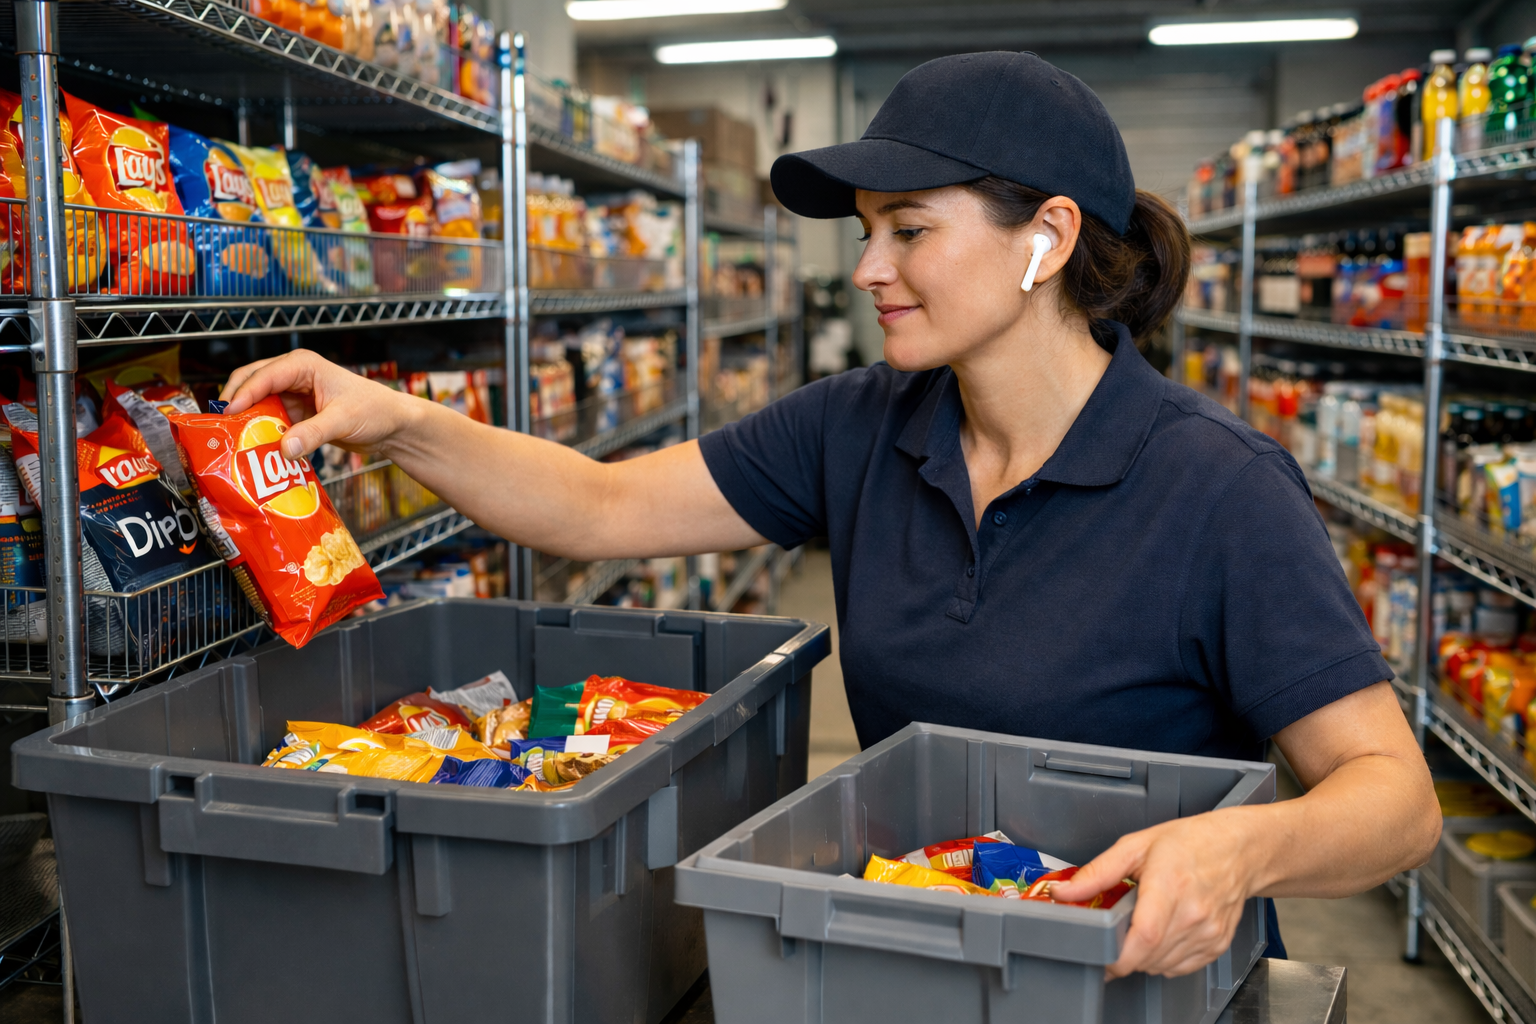
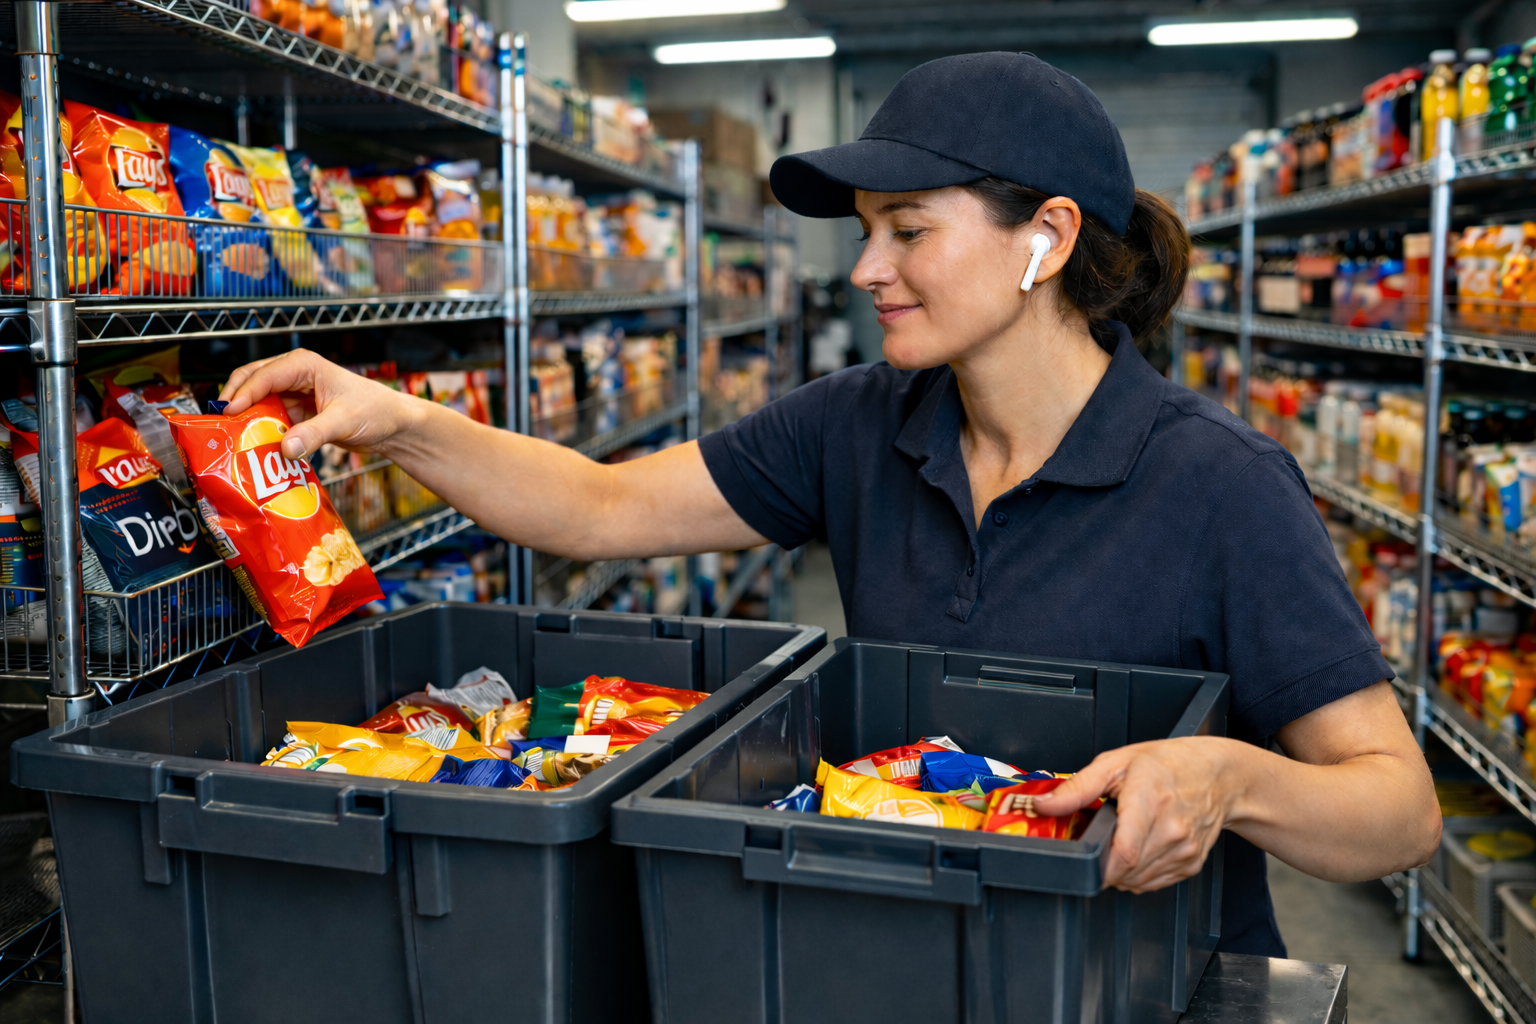
Replace hero image 3 and reduce shadow to subtle depth
- Swapped to Hero image 3
- Reduced shadow layers from 3 to 1 subtle offset shadow
- Thinned glow ring with lower opacity
- Smaller, more subtle corner accent glows
- Kept distinctive but not overwhelming

🤖 Generated with [Claude Code](https://claude.com/claude-code)

diff --git a/src/pages/Home.tsx b/src/pages/Home.tsx
@@ -88,28 +88,25 @@ const Home = () => {
             {/* Right Column - Hero Image */}
             <div className="animate-fade-in-up animation-delay-150 lg:order-last order-first">
               <div className="relative">
-                {/* Deep shadow layers for 3D effect */}
-                <div className="absolute inset-0 translate-x-4 translate-y-4 bg-primary/40 rounded-2xl blur-xl"></div>
-                <div className="absolute inset-0 translate-x-6 translate-y-6 bg-primary/20 rounded-2xl blur-2xl"></div>
-                <div className="absolute inset-0 translate-x-8 translate-y-8 bg-slate-900/60 rounded-2xl blur-2xl"></div>
+                {/* Subtle shadow for depth */}
+                <div className="absolute inset-0 translate-x-3 translate-y-3 bg-black/30 rounded-2xl blur-xl"></div>
 
-                {/* Glow ring behind image */}
-                <div className="absolute -inset-1 bg-gradient-to-r from-primary via-cyan-400 to-primary rounded-2xl blur-sm opacity-60"></div>
+                {/* Subtle glow ring */}
+                <div className="absolute -inset-0.5 bg-gradient-to-r from-primary/40 to-cyan-400/40 rounded-2xl blur-sm"></div>
 
                 {/* Main image */}
                 <img
                   src="/hero-warehouse.png"
                   alt="Warehouse worker with earbuds picking items into bins"
-                  className="relative rounded-2xl w-full border-2 border-primary/30"
+                  className="relative rounded-2xl w-full border border-primary/20"
                   style={{
-                    boxShadow: '0 25px 50px -12px rgba(0, 0, 0, 0.5), 0 0 40px rgba(78, 204, 163, 0.3)'
+                    boxShadow: '0 20px 40px -15px rgba(0, 0, 0, 0.4)'
                   }}
                 />
 
-                {/* Decorative glow elements */}
-                <div className="absolute -bottom-6 -right-6 w-32 h-32 bg-primary/50 rounded-full blur-2xl"></div>
-                <div className="absolute -top-6 -left-6 w-40 h-40 bg-cyan-400/30 rounded-full blur-3xl"></div>
-                <div className="absolute top-1/2 -right-8 w-20 h-40 bg-primary/40 rounded-full blur-2xl"></div>
+                {/* Subtle corner accents */}
+                <div className="absolute -bottom-3 -right-3 w-20 h-20 bg-primary/20 rounded-full blur-xl"></div>
+                <div className="absolute -top-3 -left-3 w-24 h-24 bg-primary/15 rounded-full blur-2xl"></div>
               </div>
             </div>
           </div>
